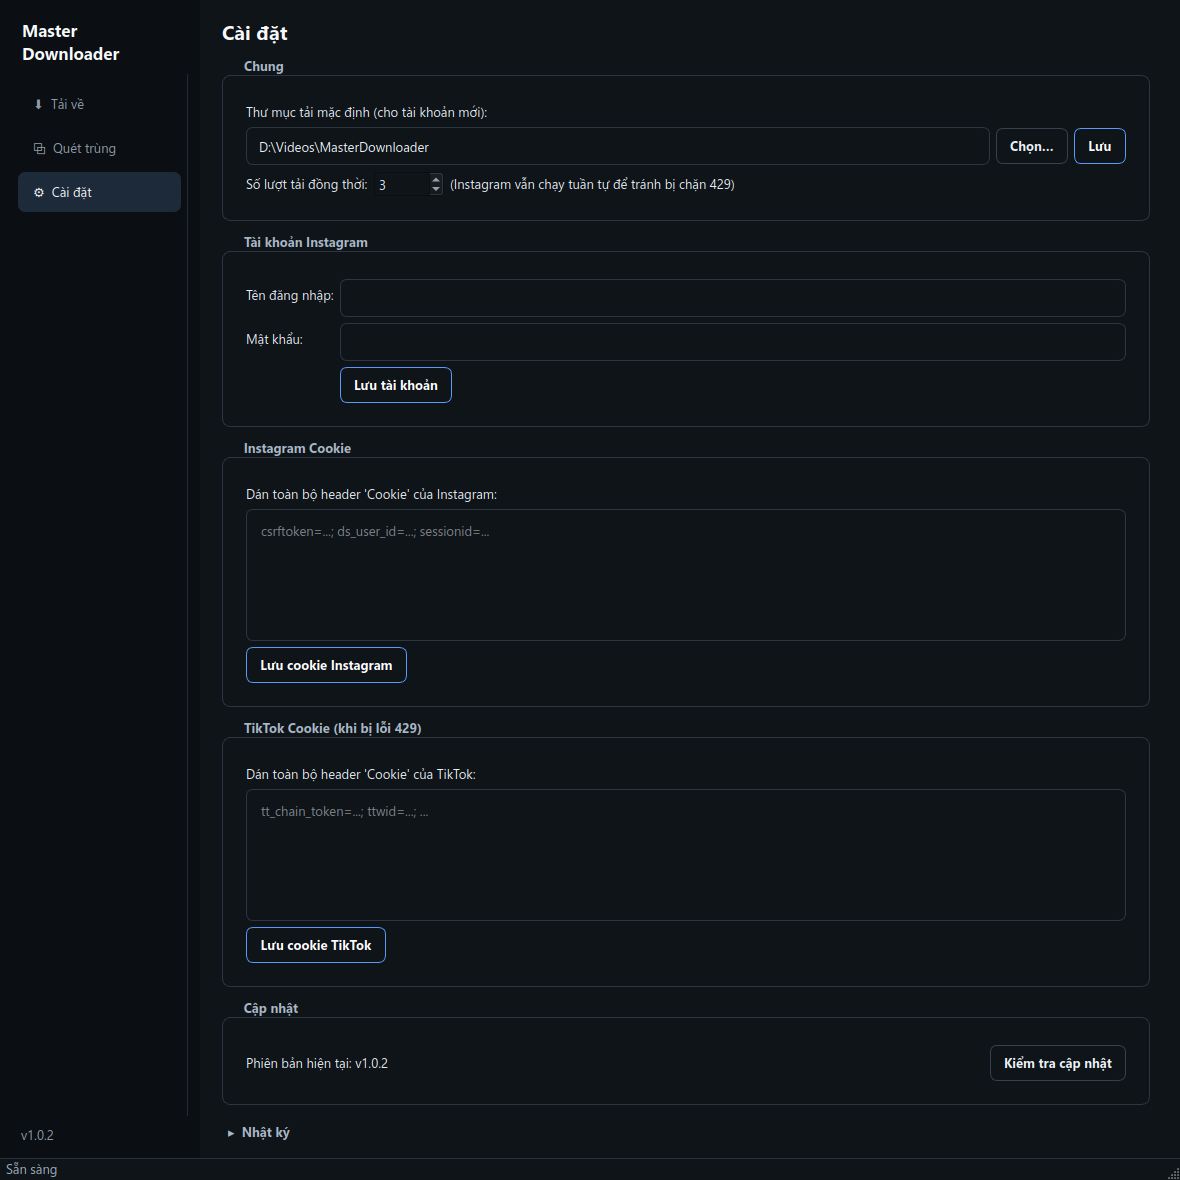
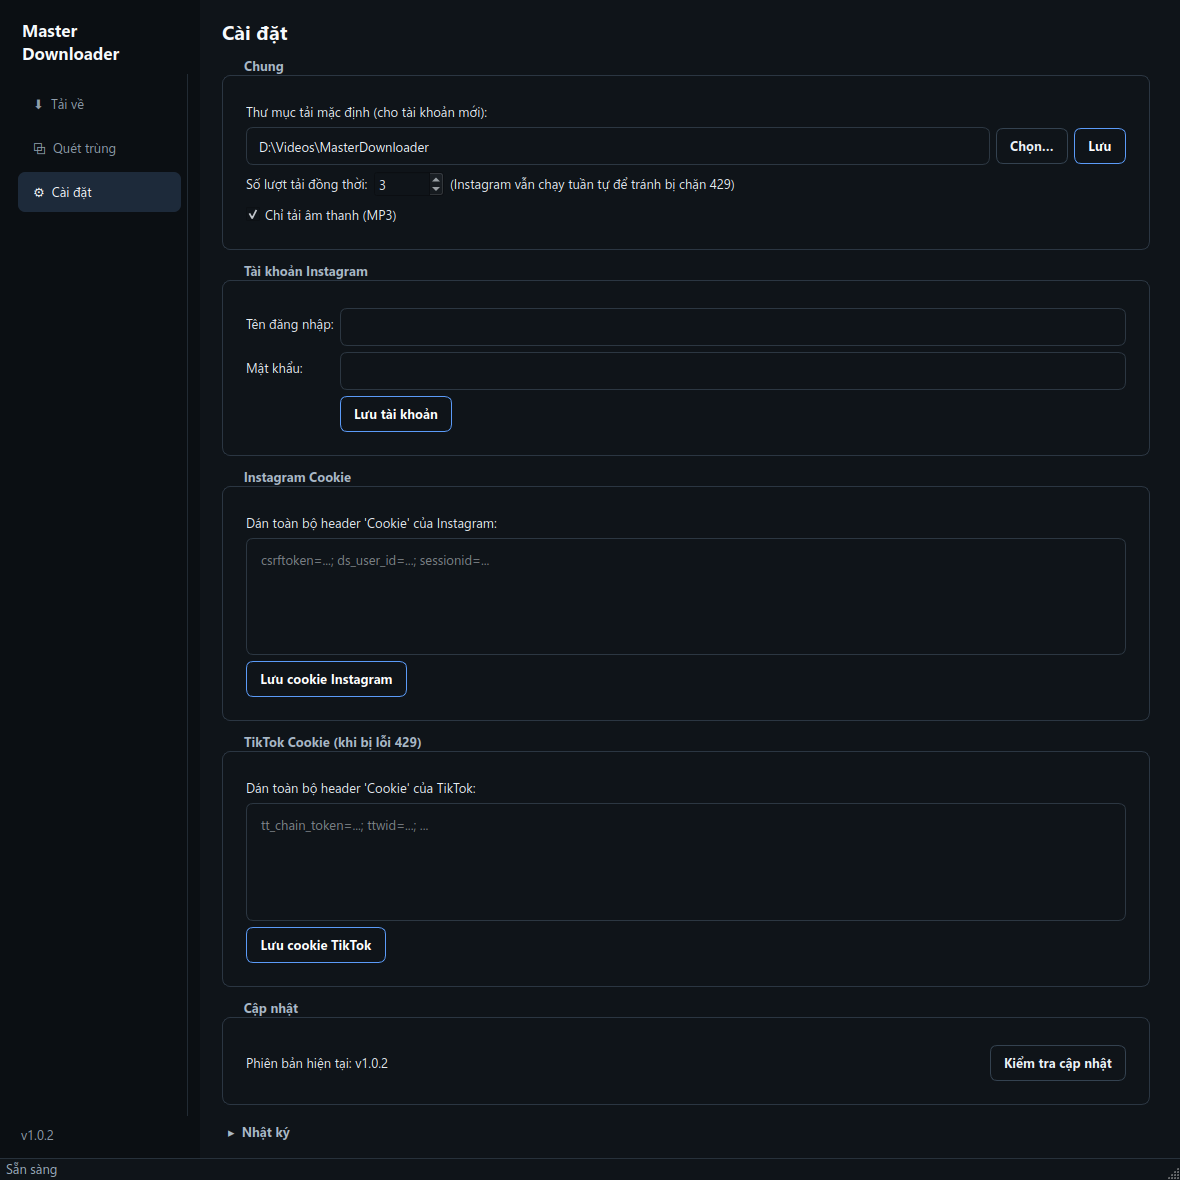
docs: README for TikTok profile photo posts/stories and MP3 mode

diff --git a/tools/screenshots.py b/tools/screenshots.py
@@ -98,6 +98,7 @@ def main(out_dir):
     dlg.close()
 
     w.nav.setCurrentRow(2)
+    w.chk_audio_only.setChecked(True)  # cho thay tuy chon MP3 (config nam trong thu muc tam)
     w.resize(1180, 1180)  # du cao de thay ca phan cookie va cap nhat
     shot("settings.png")
     w.close()
